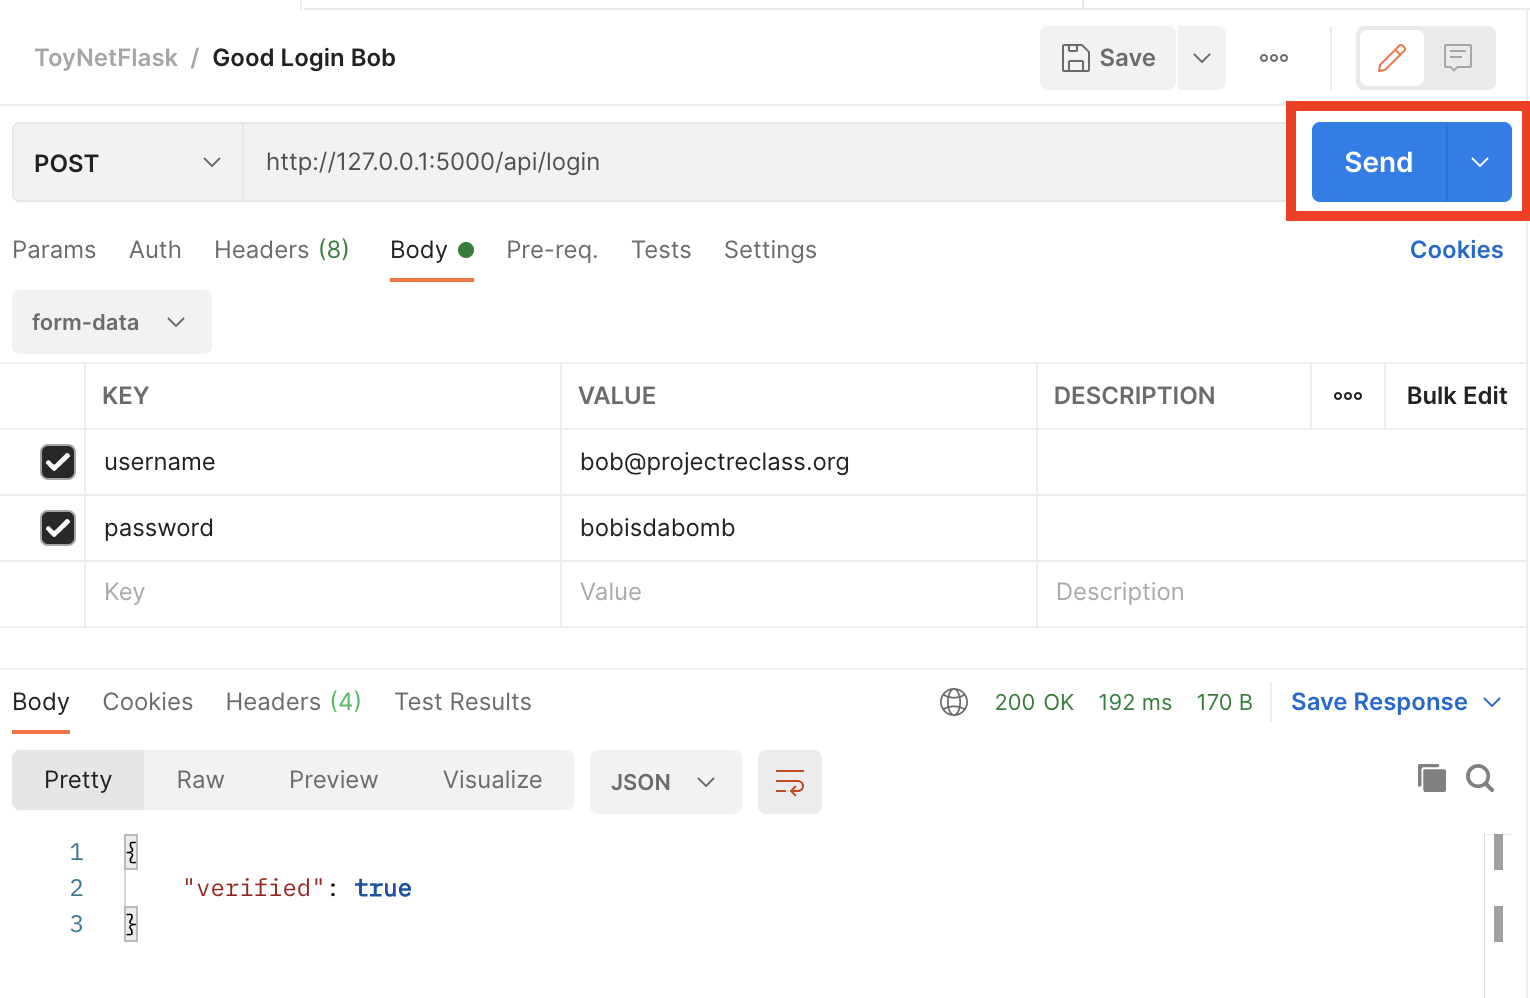
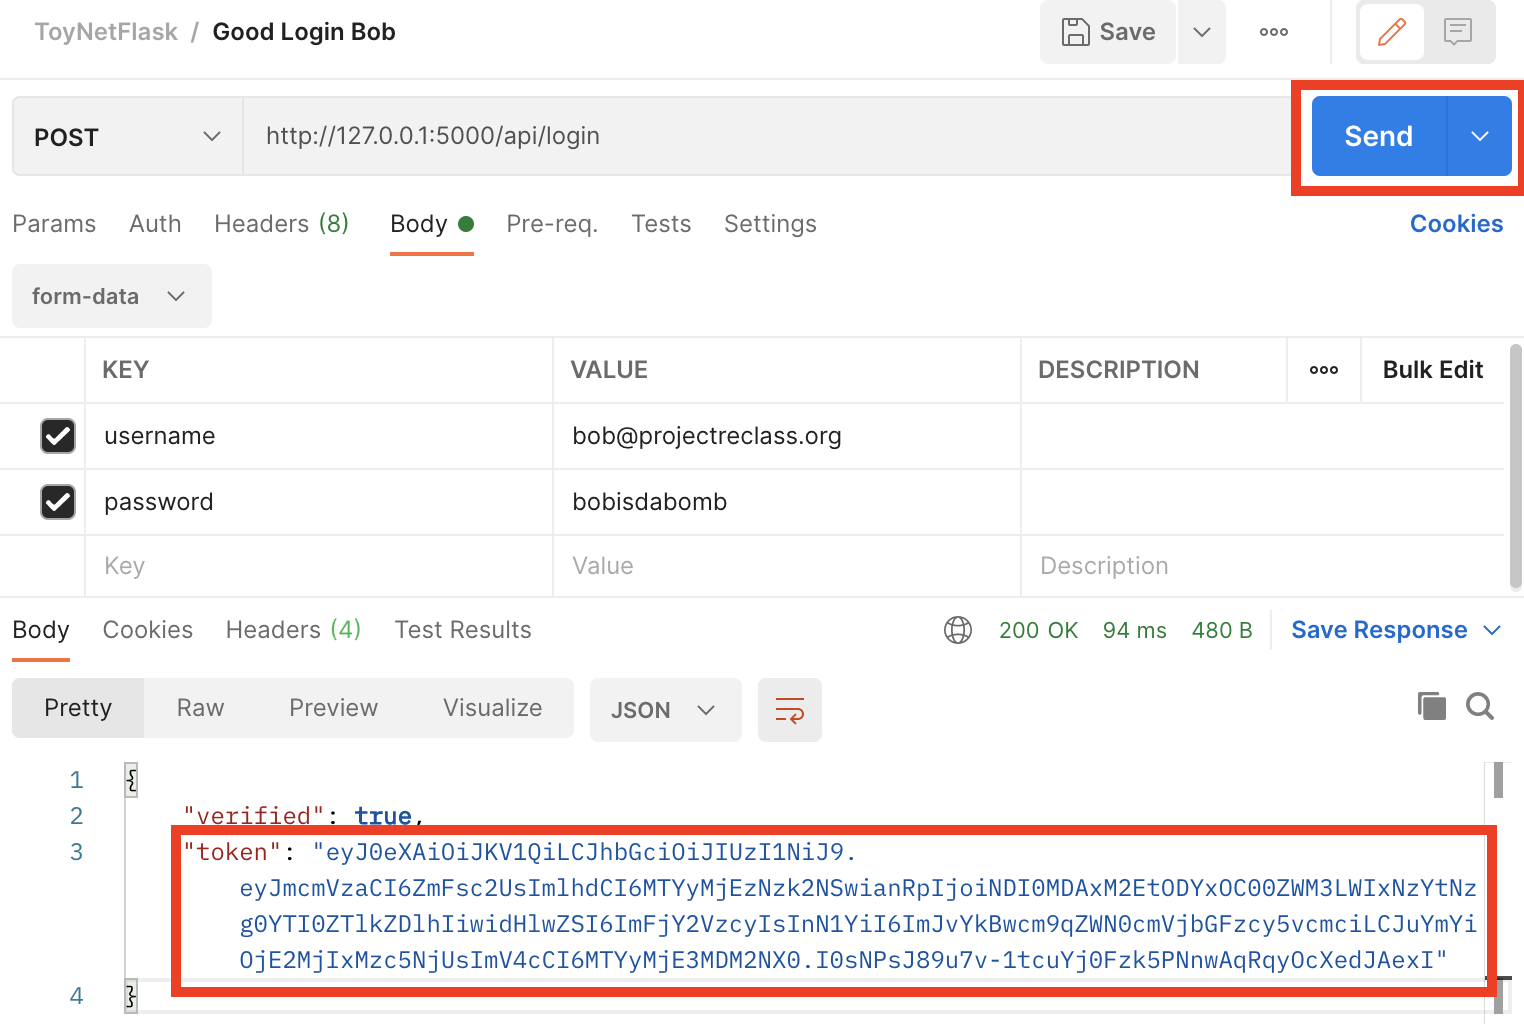
postman for JWT; manual & unit test details

diff --git a/documentation/testing.md b/documentation/testing.md
@@ -12,9 +12,9 @@ Go to: `http://127.0.0.1:5000/api/value/1`
 Open Network tab of Chrome DevTools (right click screen & click "Inspect")
 <p align="center"> <kbd> <img src="images/values-badID-404.png" width="500" /> </kbd> </p>
 
-## REST Calls where Body needs to be specified
+## Manually Testing Complex REST APIs
 
-To send REST calls to local application, you can use something like [Postman](https://www.postman.com/downloads/) ([tutorial](https://learning.postman.com/docs/sending-requests/requests/)) or [Insomnia](https://insomnia.rest/) ([tutorial](https://support.insomnia.rest/article/11-getting-started)).
+To send REST calls with complex body or authentication structures, you can use [Postman](https://www.postman.com/downloads/) ([tutorial](https://learning.postman.com/docs/sending-requests/requests/)) or [Insomnia](https://insomnia.rest/) ([tutorial](https://support.insomnia.rest/article/11-getting-started)) to construct the queries. For development, run the application locally using `flask run`, and set your target to `https://127.0.0.7:5000/<your api endpoint>`.
 
 For Postman, you will need to create a personal account with your email.
 Once you are logged in, you can use
@@ -23,12 +23,23 @@ Once you are logged in, you can use
 
 <p align="center"> <kbd> <img src="images/postman-buildingblock.png" width="500" /> </kbd> </p>
 
+### (CASE 1) Body needs to be specified
+
 You can then use the `Body` tab to provide a JSON key-value set.
 
-<p align="center"> <kbd> <img src="images/postman-requestbody.png" width="350" /> </kbd> </p>
+<p align="center"> <kbd> <img src="images/postman-requestbody.png" width="500" /> </kbd> </p>
 
 <p align="center"> <kbd> <img src="images/postman-requestresponse.png" width="500" /> </kbd> </p>
 
+### (CASE 2) Auth Token required (JWT)
+
+You can provide the JWT token (which you grab through the login API above) in the `Auth` tab with the option `Bearer Token`.
+
+<p align="center"> <kbd> <img src="images/postman-authtoken.png" width="350" /> </kbd> </p>
+
+You can resuse the JWT token until it expires, and you can have different users access the API simultaneously.
+
+<p align="center"> <kbd> <img src="images/postman-authrepeat.png" width="350" /> </kbd> </p>
 
 ## Unit Testing
 
@@ -38,6 +49,20 @@ Run our unit tests from the root directory:
 $ pytest -v
 ```
 
+<p align="center"> <kbd> <img src="images/pytest-pass.png" width="350" /> </kbd> </p>
+
+When a unit test fails, the stack trace and any other error messages are printed to the console.
+
+<p align="center"> <kbd> <img src="images/pytest-badassert.png" width="350" /> </kbd> </p>
+
+You can use print statements to debug, and `assert True` to stub tests.
+
+<p align="center"> <kbd> <img src="images/pytest-prints.png" width="350" /> </kbd> </p>
+
+Print statements only show up on the console for failed tests. You can purposefully fail a test `assert False` to see print statments.
+
+<p align="center"> <kbd> <img src="images/pytest-runprints.png" width="350" /> </kbd> </p>
+
 ## Making queries directly to SQLite
 
 <p align="center"> <kbd> <img src="images/sqlite-viewer-upload.png" width="450" /> </kbd> </p>
@@ -45,3 +70,5 @@ $ pytest -v
 Becuase we are using SQLite in development, we can upload a snapshot of the `toynet-flask/instance/toynet.sqlite` file into an online SQLite viewer such as https://inloop.github.io/sqlite-viewer/ to run queries on it.
 
 <p align="center"> <kbd> <img src="images/sqlite-viewer-query.png" width="450" /> </kbd> </p>
+
+**Note:** This method is recommended for manual tests (running `flask run`) as the temporary SQLite files used for unit testing are automatically deleted at the end of the test.

diff --git a/README.md b/README.md
@@ -107,3 +107,8 @@ A: Delete `instance/toynet.sqlite` and run `flask init-db` again.
 
 **Q: I added a test file but it isn't being picked up by pytest**<br/>
 A: Make sure the file is named `test_***.py`
+
+
+# FYIs
+
+**1. We have not rigorously tested different `USER_GROUP_ID`s.**
